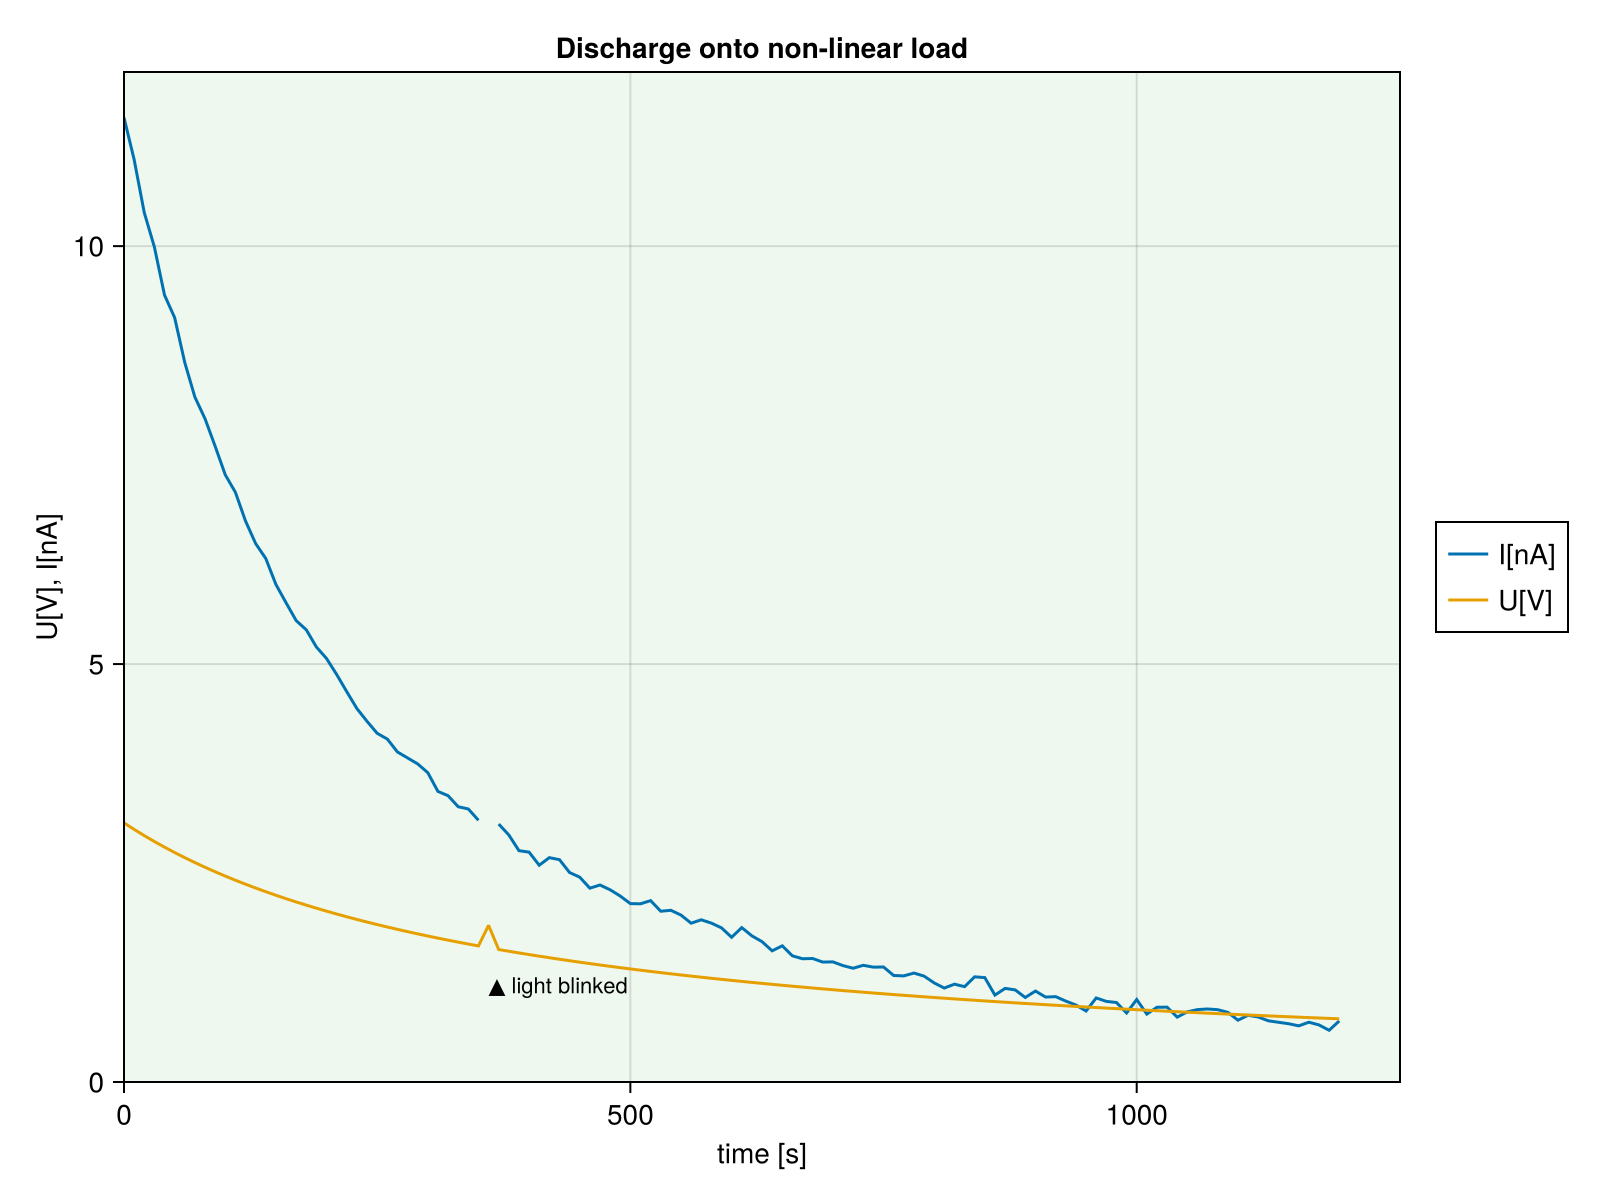
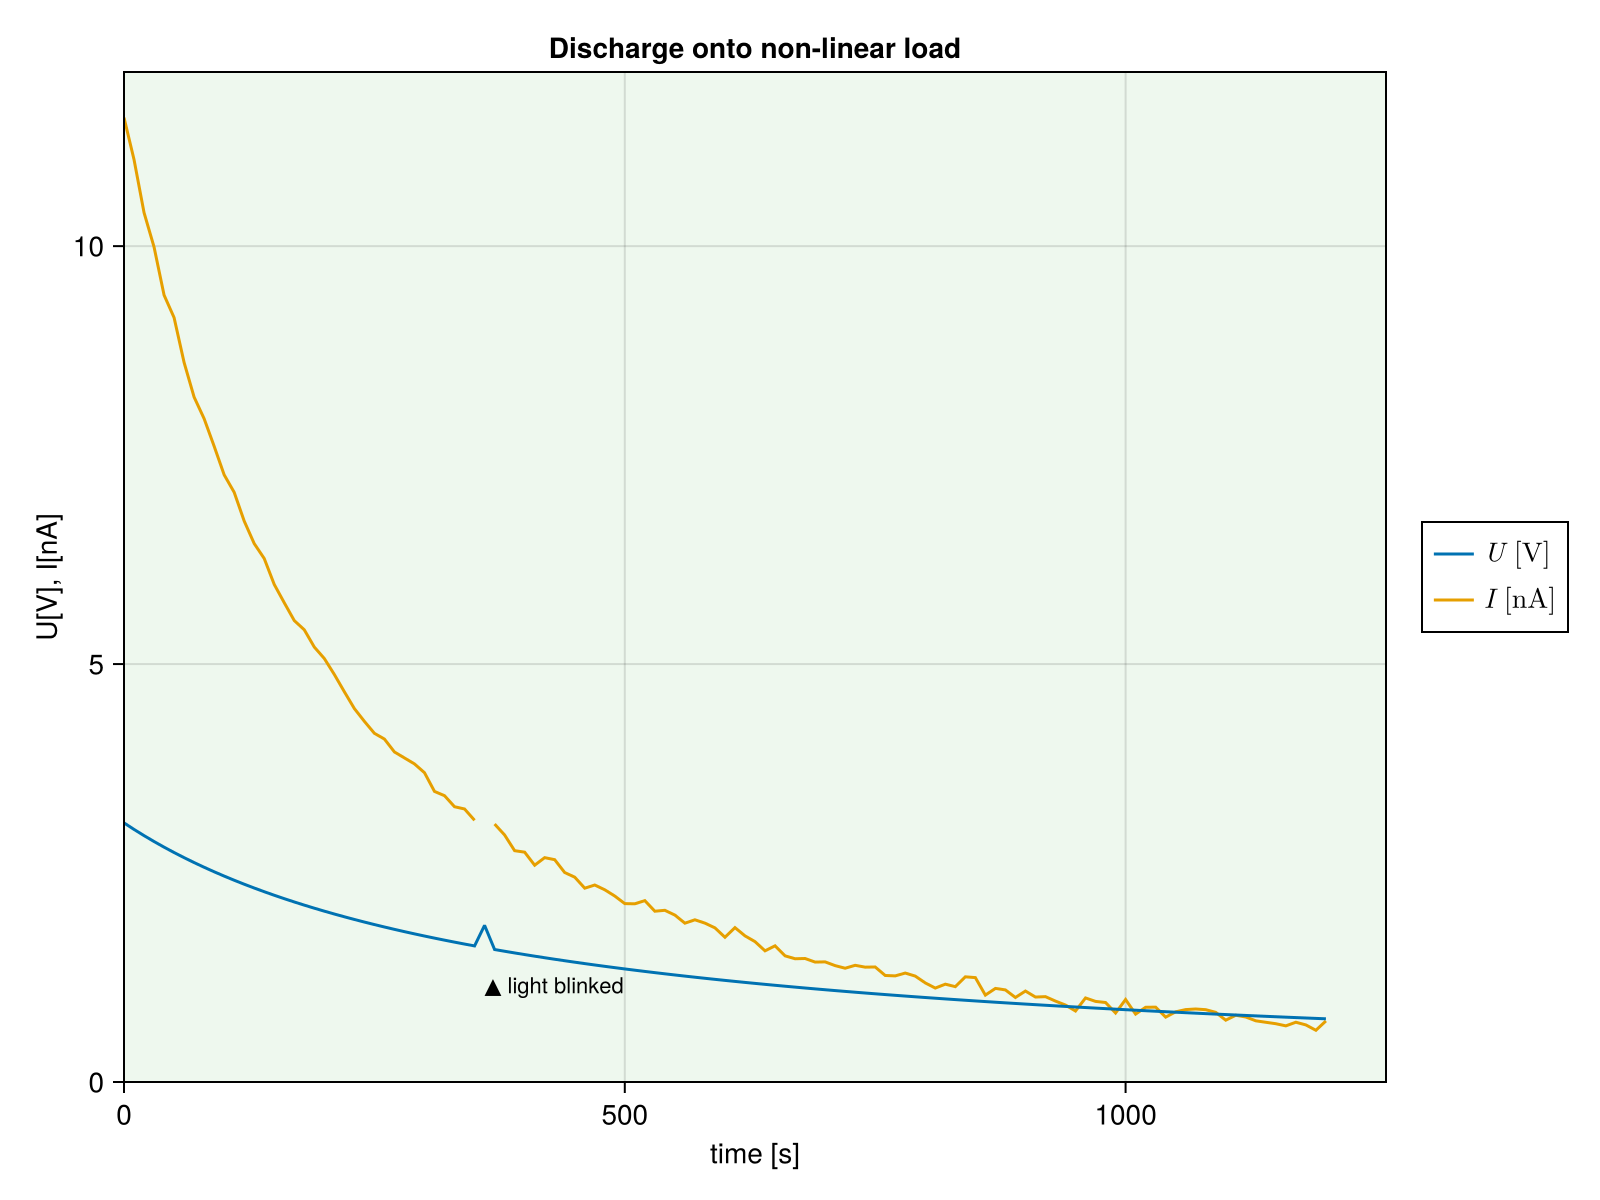
Minor Manual updates. Test files moved. ↑v0.11.1

diff --git a/docs/src/script_generation.md b/docs/src/script_generation.md
@@ -176,8 +176,8 @@ The following walkthrough demonstrates how to produce and subsequently customize
 
 The generated script serves as a starting point for further customizations that are not directly available through the GUI. By modifying the code, you can leverage the full power of both [`AlgebraOfGraphics.jl`](https://github.com/MakieOrg/AlgebraOfGraphics.jl) and [`Makie.jl`](https://github.com/MakieOrg/Makie.jl). Here, we limit ourselves to the following customizations:
 
-1. Rename the units in the Legend
-2. Change the backgroung color
+1. Customize the legend to show units. Use mathematical typesetting: variable symbols ($U$, $I$) in standard math italics, and units with brackets ($[\text{V}]$, $[\text{nA}]$) in upright roman text.
+2. Change the background color of the plot.
 3. Insert the comment(s) from the "remarks" column into the plot at the event time.
 
 Furthermore, we switch to the static `CairoMakie` backend for optimal output quality.
@@ -249,9 +249,7 @@ The first two customizations are implemented directly within the `AlgebraOfGraph
         # Extract non-missing remarks before stacking
         remarks_rows = filter(:remarks => !ismissing, df)
 
-        # Rename columns to include units in legend labels
-        df = rename(df, "U" => "U[V]", "I" => "I[nA]")
-        ys = ["U[V]", "I[nA]"]
+        ys = ["U", "I"]
         
         x_col = Symbol(names(df)[1])
         y_col = :y
@@ -267,7 +265,10 @@ The first two customizations are implemented directly within the `AlgebraOfGraph
         # Custom salad-green background color
         salad_green = "#eef8ee"
         
-        fg = draw(plt; 
+        # Explicitly set legend labels with units in mathematical type
+        color_scales = scales(Color = (; categories = ["U" => L"U\ [\text{V}]", "I" => L"I\ [\text{nA}]"]))
+        
+        fg = draw(plt, color_scales; 
             figure=(; size=(800, 600)), 
             legend=(show=true,), 
             axis=(; title, limits, xreversed=false, yreversed=false, backgroundcolor=salad_green)
@@ -337,7 +338,7 @@ The first two customizations are implemented directly within the `AlgebraOfGraph
          if rows != (:begin, :end)
              if rows[1] == :begin
                  df_selected = df_selected[begin:rows[2], :]
-    @@ -49,15 +49,22 @@
+    @@ -49,15 +49,20 @@
                  df_selected = df_selected[rows[1]:rows[2], :]
              end
          end
@@ -356,21 +357,23 @@ The first two customizations are implemented directly within the `AlgebraOfGraph
     +    # Extract non-missing remarks before stacking
     +    remarks_rows = filter(:remarks => !ismissing, df)
     +
-    +    # Rename columns to include units in legend labels
-    +    df = rename(df, "U" => "U[V]", "I" => "I[nA]")
-    +    ys = ["U[V]", "I[nA]"]
+    +    ys = ["U", "I"]
     +    
          x_col = Symbol(names(df)[1])
          y_col = :y
          group_col = :group
-    @@ -69,11 +76,21 @@
+    @@ -69,12 +74,25 @@
          
          limits = (0.0, nothing, 0.0, nothing)
          
     +    # Custom salad-green background color
     +    salad_green = "#eef8ee"
     +    
-         fg = draw(plt; 
+    +    # Explicitly set legend labels with units in mathematical type
+    +    color_scales = scales(Color = (; categories = ["U" => L"U\ [\text{V}]", "I" => L"I\ [\text{nA}]"]))
+    +    
+    -    fg = draw(plt; 
+    +    fg = draw(plt, color_scales; 
              figure=(; size=(800, 600)), 
              legend=(show=true,), 
     -        axis=(; title, limits, xreversed=false, yreversed=false)
@@ -386,7 +389,7 @@ The first two customizations are implemented directly within the `AlgebraOfGraph
          
          return fg
      end
-    @@ -82,18 +99,18 @@
+    @@ -82,18 +100,18 @@
      #
      # uncomment and run the corresponding lines to generate, display, and/or save the plot
      #

diff --git a/docs/src/index.md b/docs/src/index.md
@@ -1,3 +1,9 @@
+[![License: MIT](https://img.shields.io/badge/License-MIT-yellow.svg)](https://opensource.org/licenses/MIT)
+[![Documentation](https://img.shields.io/badge/docs-stable-blue.svg)](https://eben60.github.io/CasualPlots.jl/) 
+[![Build Status](https://github.com/Eben60/CasualPlots.jl/workflows/CI/badge.svg)](https://github.com/Eben60/CasualPlots.jl/actions?query=workflow%3ACI) 
+[![Aqua QA](https://raw.githubusercontent.com/JuliaTesting/Aqua.jl/master/badge.svg)](https://github.com/JuliaTesting/Aqua.jl)
+
+
 # CasualPlots.jl
 
 `CasualPlots.jl` is a GUI-based plotting application for Julia. It is positioned in the middle ground between purely script-based plotting and standalone GUI plotting tools. 
@@ -74,6 +80,7 @@ julia> close(app)  # close the app when finished
 #### Serving to a Web Browser
 
 ```julia-repl
+using Bonito
 julia> app = casualplots_app()
 
 julia> server = Bonito.Server(app, "127.0.0.1", 8000)
@@ -131,9 +138,11 @@ Ele.serve_app
 
 ## Miscellaneous
 
-### Likes & dislikes?
+### 👍Likes & 👎dislikes?
 
-Star on [GitHub](https://github.com/Eben60/CasualPlots.jl), open an issue, contact [me](https://discourse.julialang.org/u/eben60/summary) on Julia Discourse.
+```@raw html
+<p>Star on <a href="https://github.com/Eben60/CasualPlots.jl">GitHub</a> (that one is <span style="color: red; font-weight: bold;">important</span>!), open an issue, or contact <a href="https://discourse.julialang.org/u/eben60/summary">me</a> on Julia Discourse.</p>
+```
 
 ### AI usage disclosure
 
@@ -141,6 +150,6 @@ Google [Antigravity](https://antigravity.google/) was used extensively for codin
 
 ### Copyright and License
 
-© 2026 Ben Elkin (Eben60)
+© 2025-2026 Ben Elkin (Eben60)
 
 Released under the MIT License (see the `LICENSE` file for details).

diff --git a/README.md b/README.md
@@ -1,3 +1,8 @@
+[![License: MIT](https://img.shields.io/badge/License-MIT-yellow.svg)](https://opensource.org/licenses/MIT)
+[![Documentation](https://img.shields.io/badge/docs-stable-blue.svg)](https://eben60.github.io/CasualPlots.jl/) 
+[![Build Status](https://github.com/Eben60/CasualPlots.jl/workflows/CI/badge.svg)](https://github.com/Eben60/CasualPlots.jl/actions?query=workflow%3ACI) 
+[![Aqua QA](https://raw.githubusercontent.com/JuliaTesting/Aqua.jl/master/badge.svg)](https://github.com/JuliaTesting/Aqua.jl)
+
 # CasualPlots.jl
 
 `CasualPlots.jl` is a GUI-based plotting application for Julia. It is positioned in the middle ground between purely script-based plotting and standalone GUI plotting tools. 
